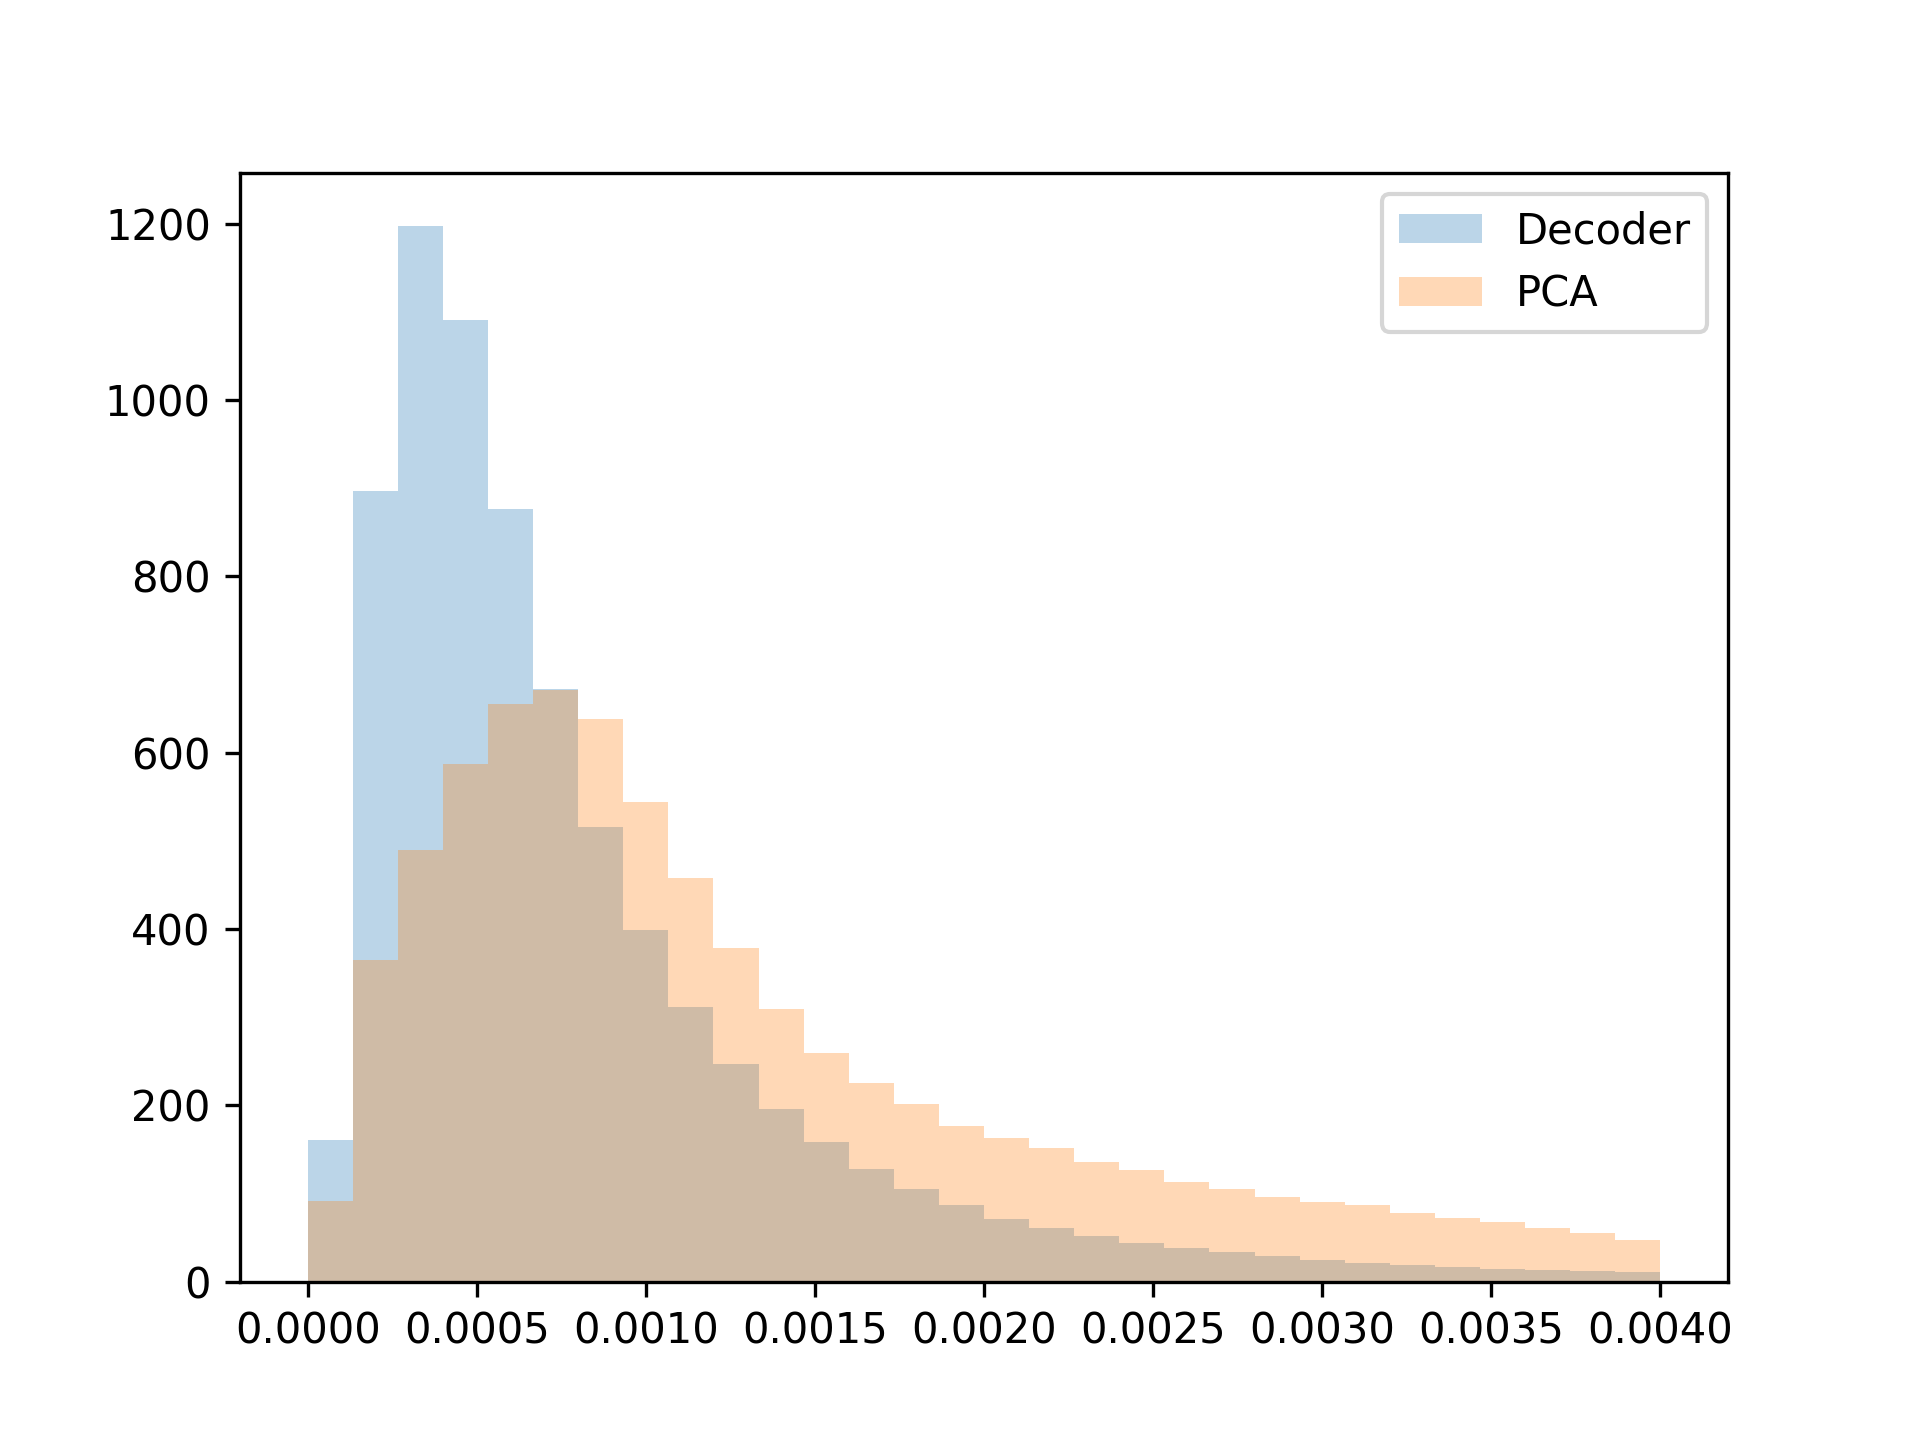
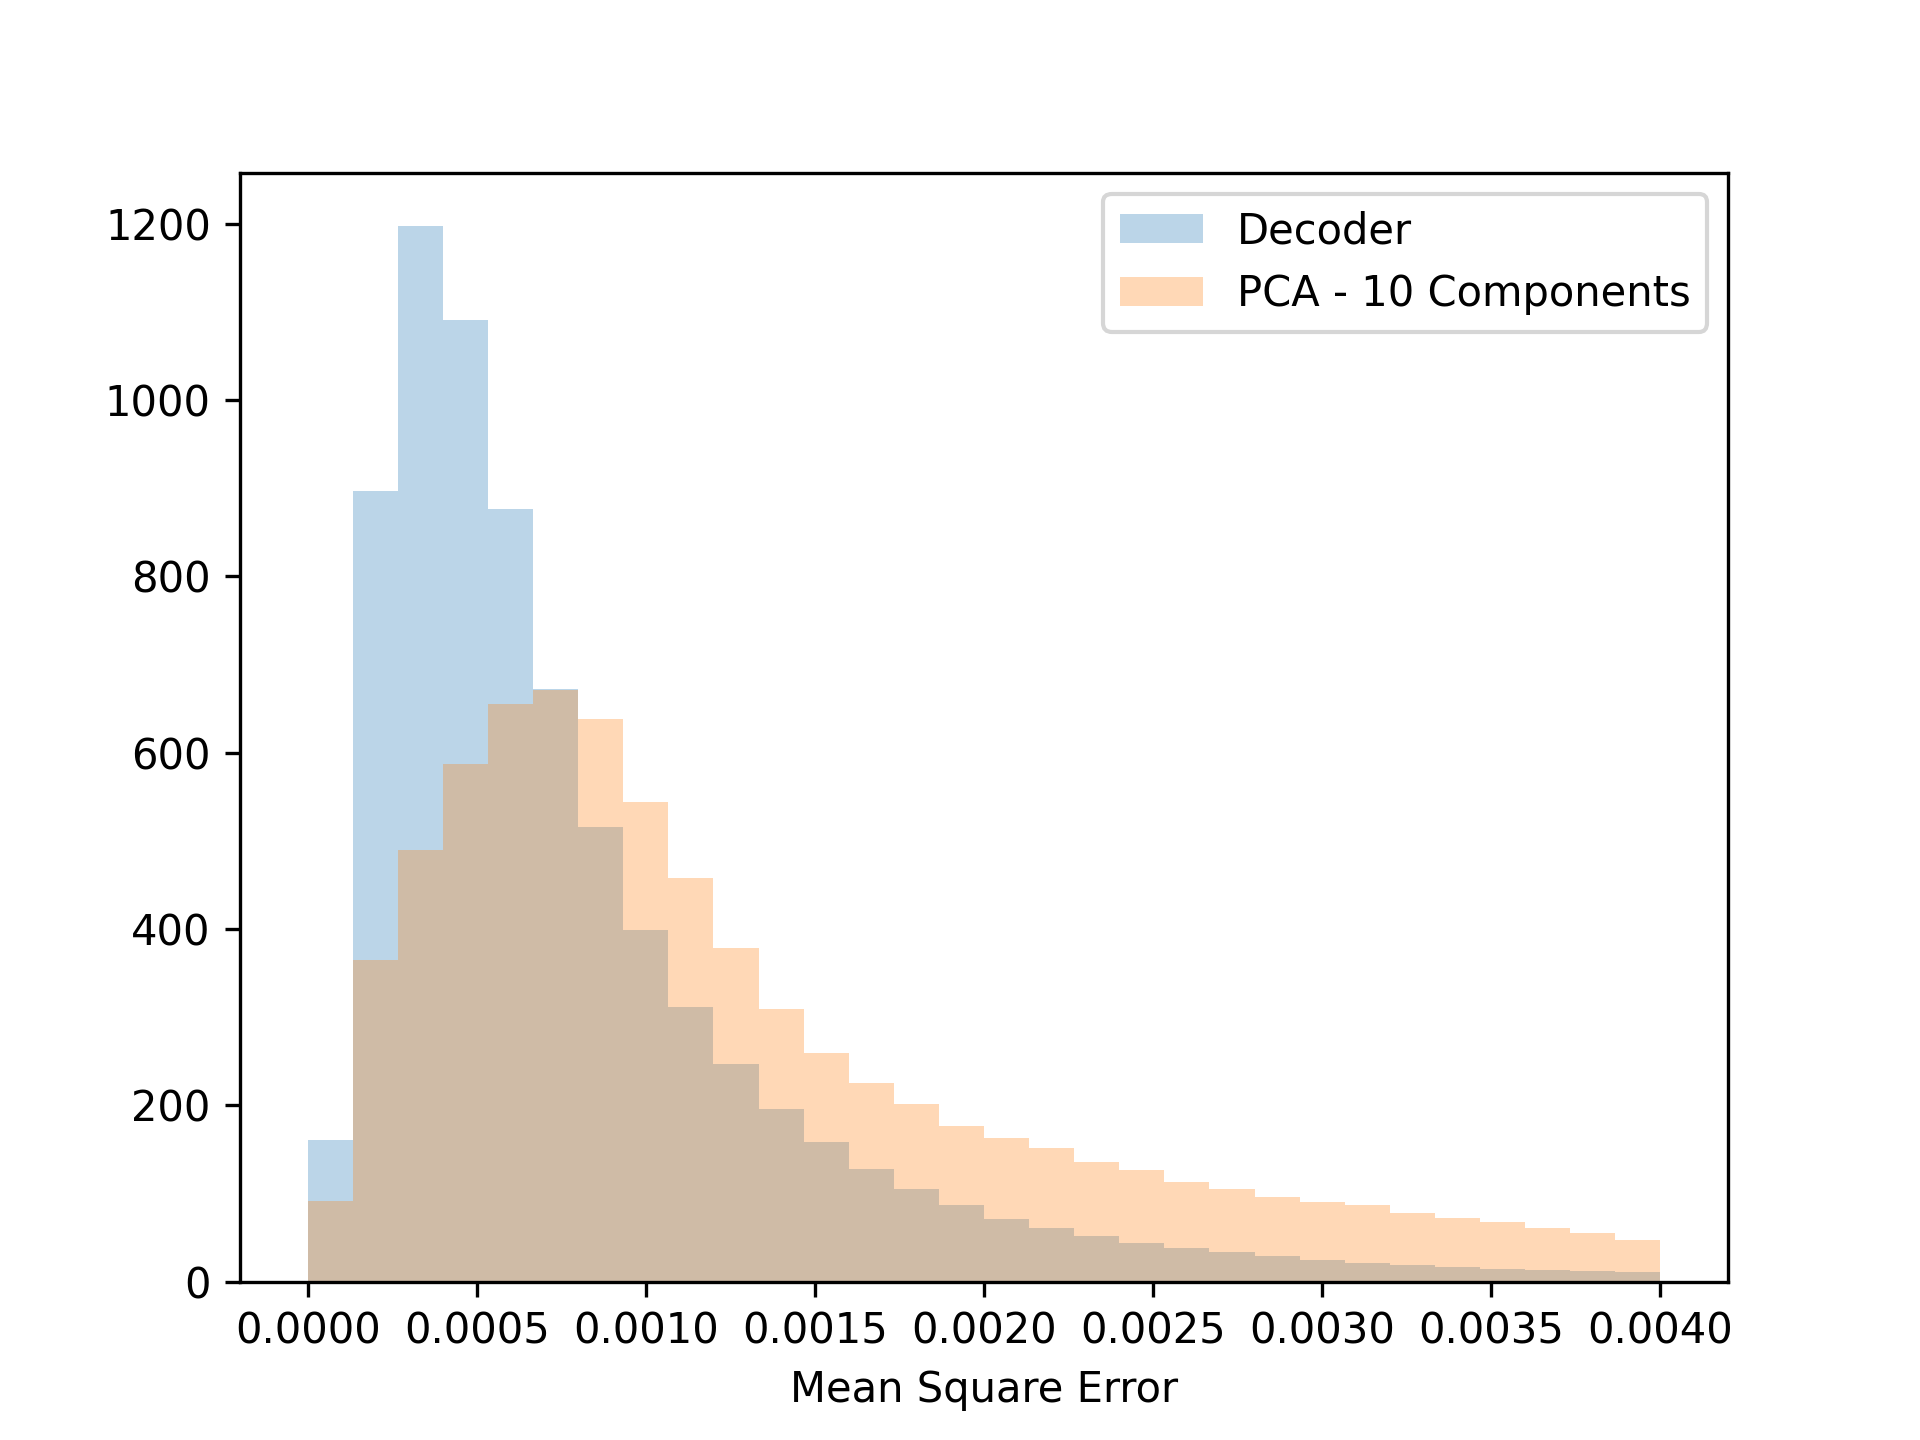
Updated mse

Changed region(s): [[0.5625, 0.125, 0.875, 0.2188], [0.4062, 0.9375, 0.625, 1.0]]

diff --git a/autoencoder/test_decoder.py b/autoencoder/test_decoder.py
@@ -89,7 +89,7 @@ flux = np.array(infile['flux_tor'][:])
 dataset = np.log10(np.array(infile['flux_tor'][:]))
 
 
-pca = PCA(n_components=10)
+pca = PCA(n_components=7)
 mu = np.mean(dataset, axis=0)
 pca.fit(dataset)
 weights = pca.transform(dataset)
@@ -103,12 +103,11 @@ Xhat = 10**Xhat
 err_set_PCA = np.abs((Xhat-flux))/flux
 mse_PCA = np.array(np.mean(np.square(err_set_PCA), axis=1))
 
-print(mse_PCA)
-print(mse)
 _, bins, _ = plt.hist(mse, bins = 30, range=[0, 0.004], density = True, alpha = 0.3, label = 'Decoder')
 plt.hist(mse_PCA, bins = bins, density = True, alpha = 0.3, label = 'PCA - 10 Components')
 plt.legend()
-plt.savefig('mse_10.png', dpi=300)
+plt.xlabel('Mean Square Error')
+plt.savefig('mse_7.png', dpi=300)
 plt.clf()
 """
 ##### CREATE PLOT OF SPECTRA WITH MOST ERROR
